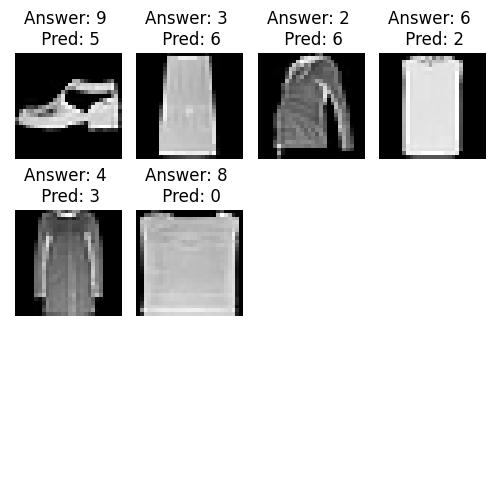
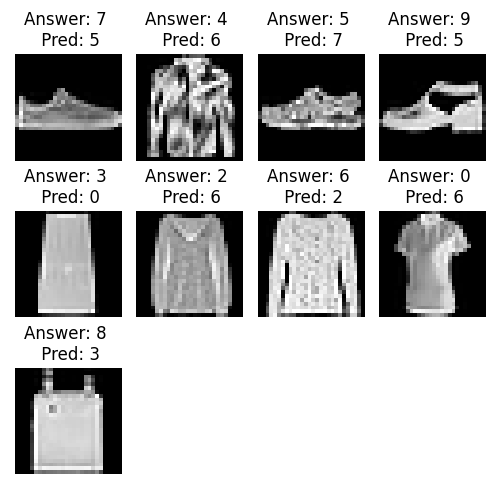
OMFG

diff --git a/submission.py b/submission.py
@@ -110,7 +110,7 @@ displayed_classes = set()
 plt.figure(figsize=(5, 5))
 count = 0
 for idx in misclassified_indices:
-    if count == 6:
+    if count == 9:
         break
     true_label = y_test[idx]
     if true_label not in displayed_classes:
